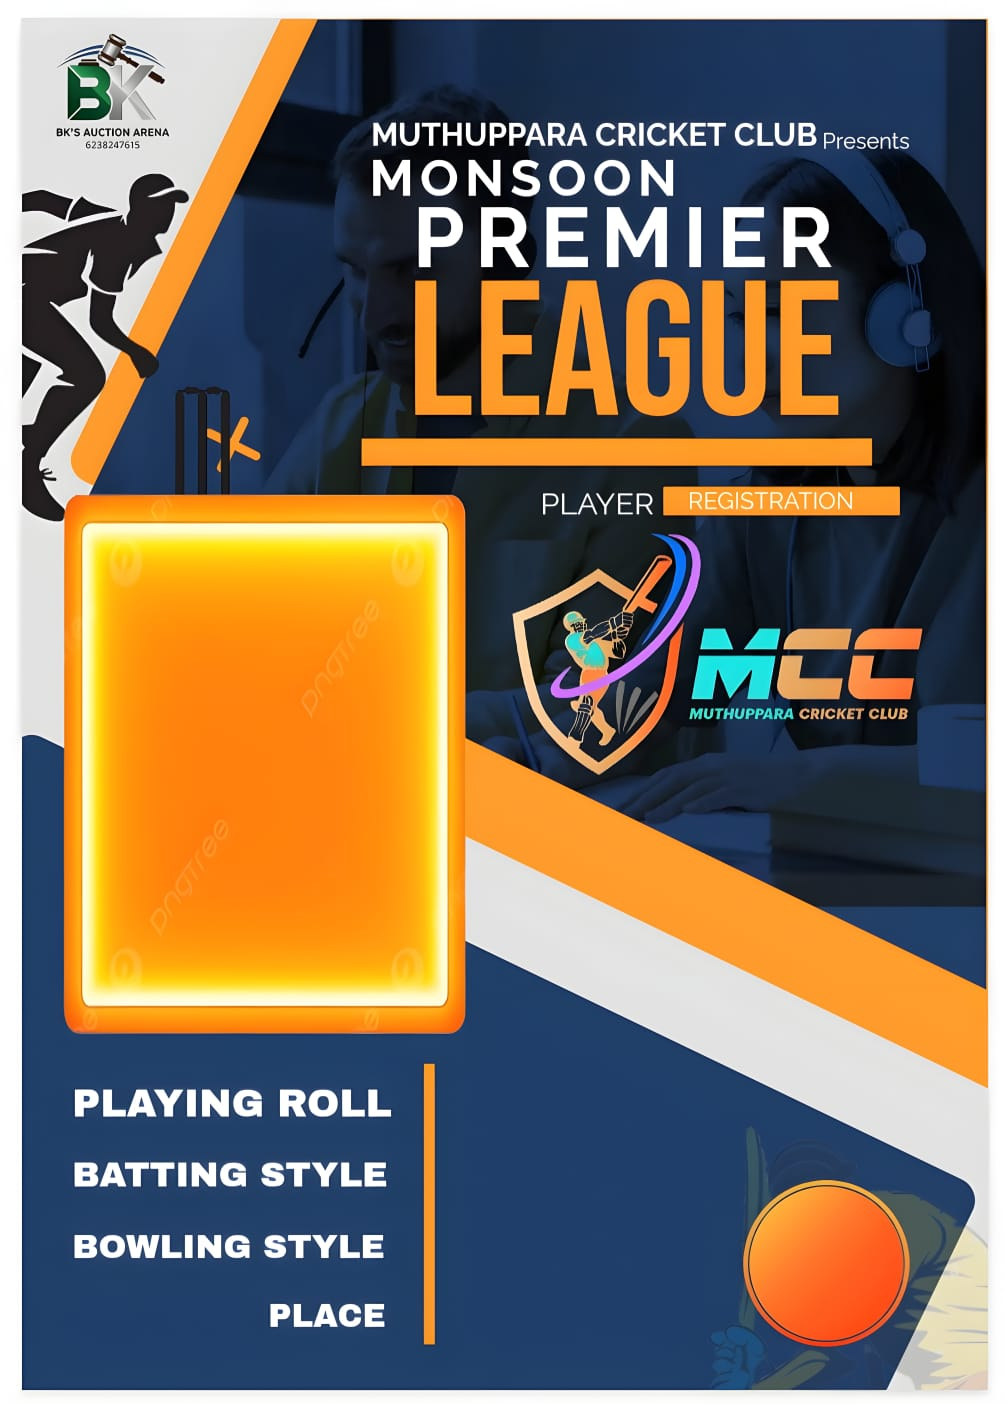
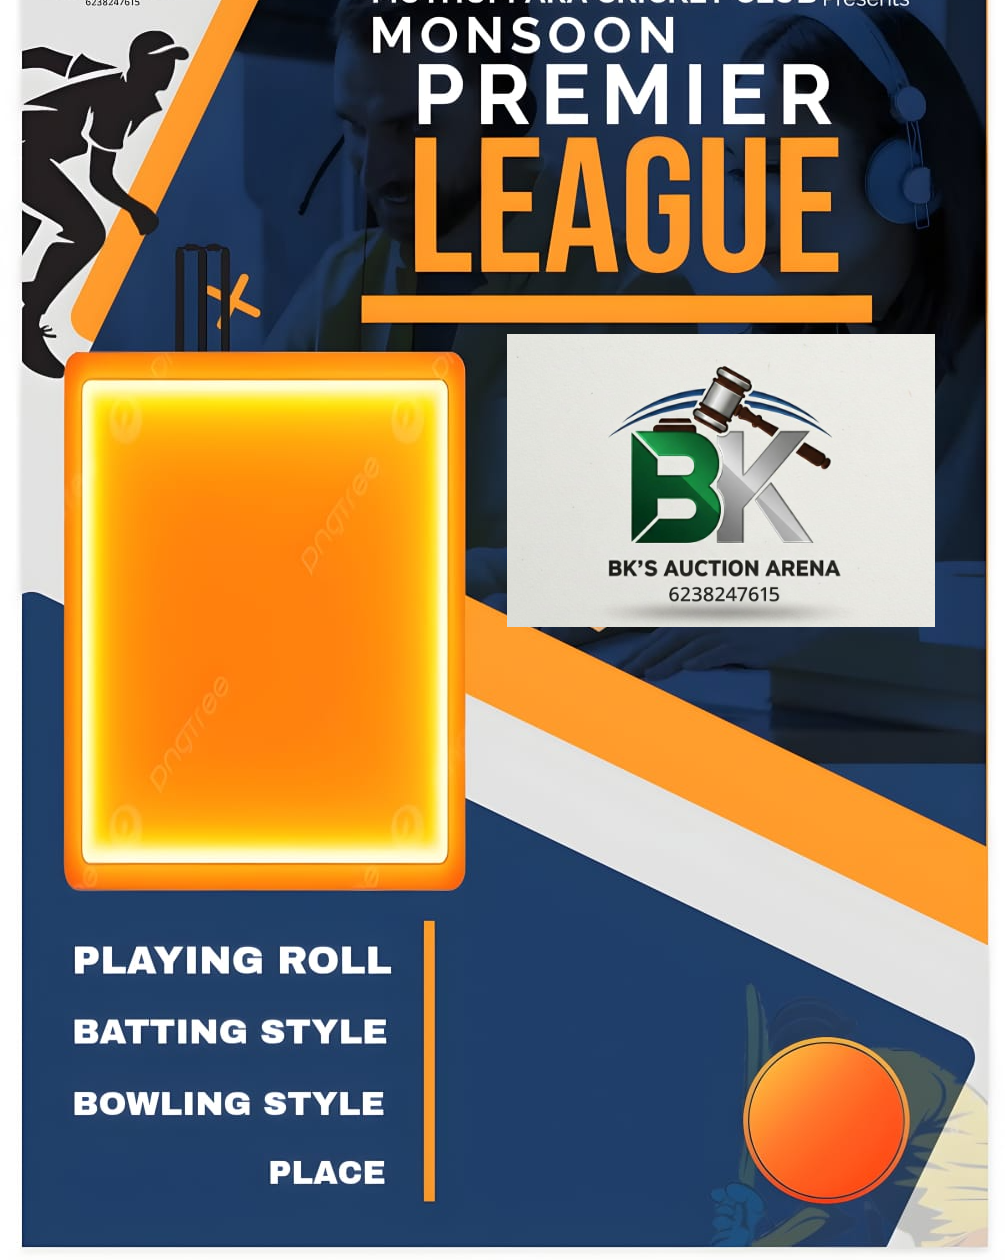
fix

diff --git a/src/pages/PlayerList.tsx b/src/pages/PlayerList.tsx
@@ -135,7 +135,7 @@ const PlayerList = () => {
       />
 
 
-      <div className="absolute top-[36%] left-[8%] text-left text-white font-bold text-lg">
+      <div className="absolute top-[29%] left-[8%] text-left text-white font-bold text-lg">
         <img
           src={`https://storage.googleapis.com/rajas_pl/${player.profile_image}`}
           alt="img"
@@ -143,24 +143,24 @@ const PlayerList = () => {
         />
       </div>
 
-       <div className="absolute top-[63%] left-[48%] w-[52%] text-center text-black font-bold text-[90%] rotate-[27deg]">
+       <div className="absolute top-[59%] left-[48%] w-[52%] text-center text-black font-bold text-[90%] rotate-[27deg]">
         {player.fullname.toUpperCase()}
       </div>
 
-       <div className="absolute top-[69%] left-[55%] text-left text-black font-bold text-[90%] rotate-[27deg]">
+       <div className="absolute top-[65%] left-[55%] text-left text-black font-bold text-[90%] rotate-[27deg]">
         {player.contact_no}
       </div>
       
 
-      <div className="absolute bottom-[19%] left-[45%] text-left text-white font-bold text-[90%]">
+      <div className="absolute bottom-[21%] left-[45%] text-left text-white font-bold text-[90%]">
         {player.player_role}
       </div>
 
-      <div className="absolute bottom-[14%] left-[45%] text-left text-white font-bold text-[90%]">
+      <div className="absolute bottom-[16%] left-[45%] text-left text-white font-bold text-[90%]">
         {player.batting_style}
       </div>
 
-      <div className="absolute bottom-[9%] left-[45%] text-left text-white font-bold text-[90%]">
+      <div className="absolute bottom-[10%] left-[45%] text-left text-white font-bold text-[90%]">
         {player.bowling_style}
       </div>
 

diff --git a/src/App.tsx b/src/App.tsx
@@ -23,7 +23,7 @@ const App = () => (
             <Header />
             <Routes>
               <Route path="/" element={<Index />} />
-              <Route path="/register" element={<PlayerList />} />
+              <Route path="/register" element={<PlayerRegister />} />
               <Route path="/players" element={<PlayerList />} />
               <Route path="*" element={<NotFound />} />
             </Routes>

diff --git a/src/components/ui/Header.tsx b/src/components/ui/Header.tsx
@@ -11,7 +11,7 @@ const Header = () => {
   const navItems = [
     { path: '/', label: 'Home', icon: Home },
     { path: '/players', label: 'Players', icon: Users },
-    // { path: '/register', label: 'Register', icon: UserPlus },
+    { path: '/register', label: 'Register', icon: UserPlus },
     // { path: '/register', label: 'Register', icon: Users },
   ];
 

diff --git a/src/constants.tsx b/src/constants.tsx
@@ -1,4 +1,4 @@
-export const BACKEND_URL = "https://nileswar-pl-be-204746249106.europe-west1.run.app/" // "http://localhost:8080";  //  "https://my-node-app-204746249106.asia-south1.run.app/" //  ; 
+export const BACKEND_URL = "https://rajas-backend-204746249106.europe-west1.run.app/" // "http://localhost:8080";  //  "https://my-node-app-204746249106.asia-south1.run.app/" //  ; 
 export const TOTAL_PLAYER = 11
 
 export const SOCKET_URL = "https://kvves-backend-204746249106.europe-west1.run.app/" //   "http://localhost:8080";  "http://localhost:8080";  //  "https://my-node-app-204746249106.asia-south1.run.app/" //  ; 